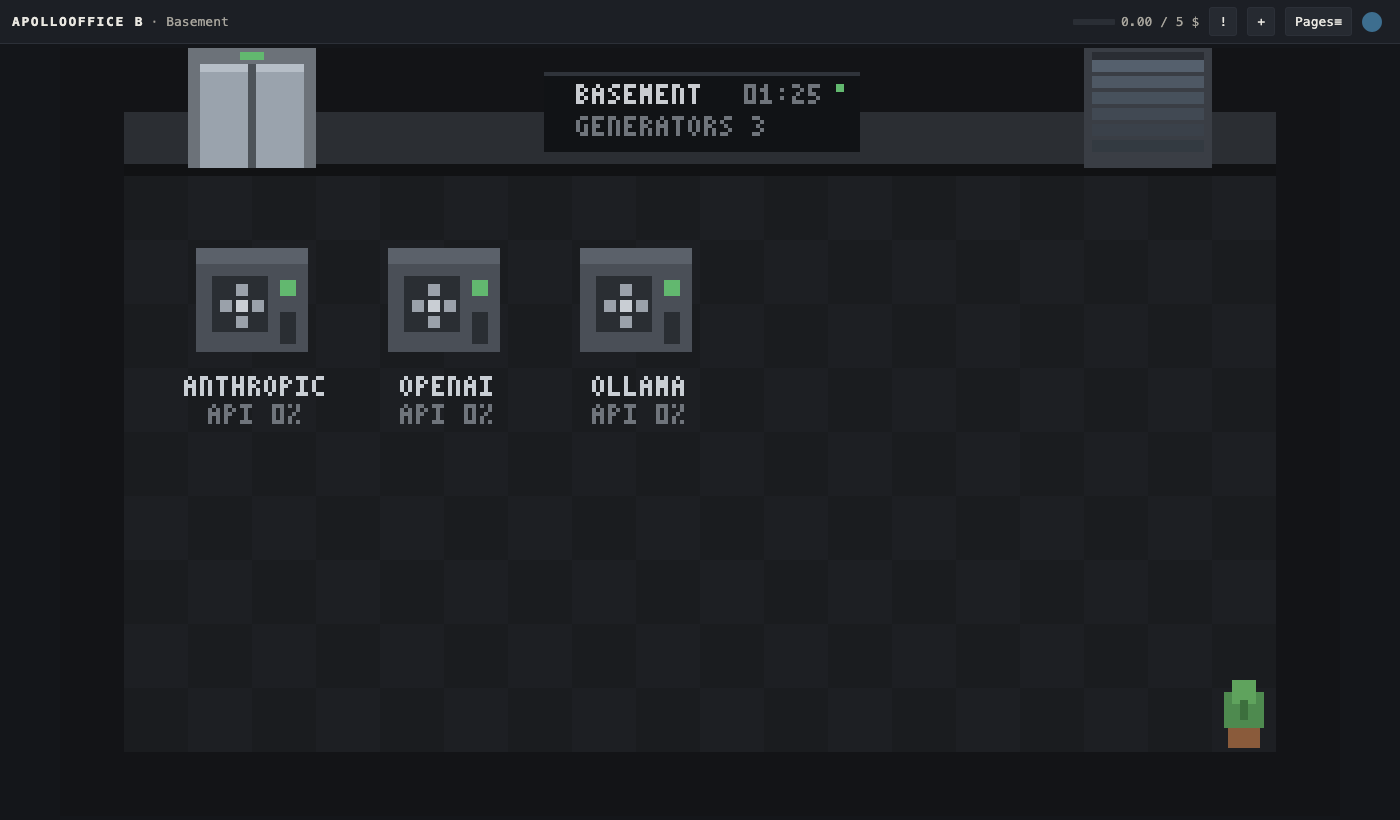
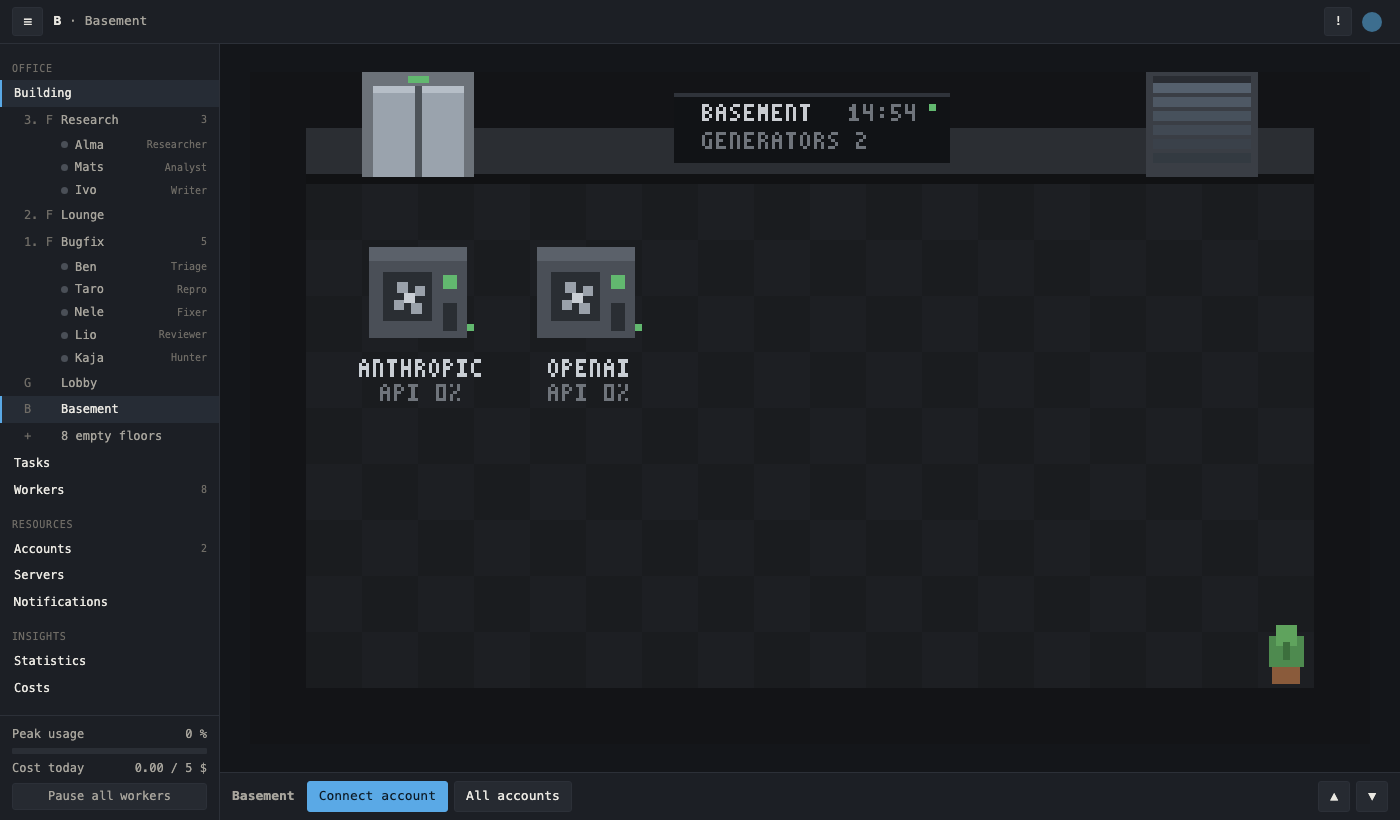
Polish the new UI and refresh screenshots
- Worker overview shows folders, commands, websites and schedules
- Statistics can add the usual widgets with one click
- Login page points to apollo-office login-link as a visible fallback
- New README screenshots of the sidebar layout
- Bump to 0.2.4

diff --git a/ui/p.js b/ui/p.js
@@ -267,7 +267,7 @@ PG.stats = async () => {
     if (w.k === "chart") return `<canvas data-ch='${esc(JSON.stringify(Array.isArray(x) ? x : []))}' width="300" height="80"></canvas>`;
     return `<div>${esc(typeof x === "object" ? JSON.stringify(x) : x)}</div>`;
   };
-  pgi.innerHTML = head("Statistics", "Numbers from your building and from outside. The service only fetches external data from addresses you enter here.") + `<div class="grid">${ws.map((w) => `<div class="wg"><div class="h"><span>${esc(w.nm || WK[w.k])}</span><span data-ed="${w.id}">⋯</span></div>${val(w)}</div>`).join("")}<div class="wg add" data-nw>+ ${"Widget"}</div></div>`;
+  pgi.innerHTML = head("Statistics", "Numbers from your building and from outside. The service only fetches external data from addresses you enter here.") + `<div class="grid">${ws.map((w) => `<div class="wg"><div class="h"><span>${esc(w.nm || WK[w.k])}</span><span data-ed="${w.id}">⋯</span></div>${val(w)}</div>`).join("")}<div class="wg add" data-nw>+ ${"Widget"}</div></div>${ws.length ? "" : `<div class="row" style="margin-top:12px"><button class="p" data-def>${"Add the usual widgets"}</button><span class="mt">${"Done today, running tasks, cost today, done per day."}</span></div>`}`;
   pgi.querySelectorAll("canvas[data-ch]").forEach((c) => {
     const d = JSON.parse(c.dataset.ch), g = c.getContext("2d"), mx = Math.max(1, ...d.map((r) => +r.n || 0));
     const bw = c.width / Math.max(1, d.length);
@@ -275,6 +275,7 @@ PG.stats = async () => {
   });
   pgi.onclick = (e) => {
     if (e.target.closest("[data-nw]")) return wEd({});
+    if (e.target.closest("[data-def]")) return (async () => { for (const [k, q, nm] of [["num", "done_today", "Done today"], ["num", "run", "Running tasks"], ["num", "usd_today", "Cost today ($)"], ["chart", "tasks_per_day", "Done per day"]]) { const r = await A.api("/api/wid", { k, nm, src: { t: "house", q, every: 60 }, x: 0, y: 0, w: 1, h: 1 }); await A.api(`/api/wid/${r.id}/now`, {}); } setTimeout(PG.stats, 500); })().catch(A.fail);
     const ed = e.target.closest("[data-ed]"); if (ed) wEd(ws.find((w) => w.id === +ed.dataset.ed));
   };
   clearTimeout(PG.st); PG.st = setTimeout(() => { if (!pg.hidden && pgi.querySelector(".grid")) PG.stats(); }, 15000);
@@ -574,7 +575,7 @@ const loginScreen = (me) => {
   const er = new URLSearchParams(location.search).get("e");
   const known = ["Login cancelled", "Link invalid or expired", "token belongs to another installation", "token was issued for another address", "token expired, please log in again", "login unknown or already used", "the login was started in another browser", "token without account", "This installation belongs to another account.", "broken token", "broken signature", "invalid signature"];
   if (er) { $("le").hidden = false; $("le").textContent = known.includes(er) ? er : "Login failed."; }
-  $("lf").textContent = "Login goes through auth.apollonet.dev. It only learns who is logging in. Everything else stays on this computer. No access? In the terminal: apollo-office login-link";
+  $("lf").textContent = "Login goes through auth.apollonet.dev. It only learns who is logging in. Everything else stays on this computer.";
 };
 
 let polling = false, lastLv = {};

diff --git a/ui/m.js b/ui/m.js
@@ -48,6 +48,10 @@ A.wBox = async (e) => {
     ${lv.say ? `<div class="rw"><span>${"Last"}</span><span>${esc(lv.say.slice(0, 120))}</span></div>` : ""}
     <div class="rw"><span>${"Today"}</span><span>${(d.us && d.us.tok) || 0} Tokens${d.us && d.us.usd ? " · " + d.us.usd.toFixed(2) + " $" : ""}</span></div>
     <div class="rw"><span>${"Takes tasks from"}</span><span>${(w.cfg.from || []).map((f) => esc(wName(f.w ?? f))).join(", ") || "only from you"}</span></div>
+    <div class="rw"><span>${"Folders"}</span><span>${[...(w.cfg.fsw || []).map((x) => esc(x) + " (rw)"), ...(w.cfg.fsr || []).map((x) => esc(x) + " (r)")].join("<br>") || `<span class="er">${"none yet"}</span>`}</span></div>
+    <div class="rw"><span>${"Commands"}</span><span>${w.cfg.sh === true ? "any" : Array.isArray(w.cfg.sh) && w.cfg.sh.length ? w.cfg.sh.map(esc).join(", ") : "none"}${w.cfg.push ? " · git push" : ""}</span></div>
+    ${(w.cfg.net || []).length ? `<div class="rw"><span>${"Websites"}</span><span>${w.cfg.net.map(esc).join(", ")}</span></div>` : ""}
+    ${(w.cfg.sched || []).length ? `<div class="rw"><span>${"Recurring"}</span><span>${w.cfg.sched.map((x) => esc(x.ti) + " · " + (x.at ? esc(x.at) : "every " + (+x.every || 0) + " min")).join("<br>")}</span></div>` : ""}
     <details open><summary>${"Recent tasks"}</summary><div class="li">${(d.tk || []).slice(0, 12).map((t) => `<div data-k="${t.id}"><span>${esc(t.ti.slice(0, 40))}</span><span class="mt">${L(t.st)}</span></div>`).join("") || `<span class="mt">${"none yet"}</span>`}</div></details>
     <div class="acts"><button data-t>${"Give task"}</button><button class="l" data-f>${A.fol === e ? "Unfollow" : "Follow"}</button><button class="l" data-h>${w.hold ? "Resume" : "Pause"}</button></div>`, e);
   b.onclick = async (ev) => {
@@ -150,7 +154,7 @@ A.wSet = async (id, at) => {
         <div class="row" style="display:flex;gap:4px;margin-top:4px"><input type="text" id="sSt" placeholder="${"Title"}" style="flex:1"><input type="text" id="sSe" placeholder="${"08:00 or 60"}" style="width:90px"><button class="l" data-as>+</button></div>
       </details>
       <details${A.permOpen ? " open" : ""}><summary>${"Permissions"}</summary>
-        <div class="mt">${"Read folder"}</div>${chips("fsr", c.fsr, "Path, e.g. C:\\Users\\you\\Project")}
+        <div class="mt">${"Read folder"}</div>${chips("fsr", c.fsr, navigator.platform.startsWith("Win") ? "Path, e.g. C:\\Users\\you\\Project" : "Path, e.g. /home/you/project")}
         <div class="mt">${"Read and change folder"}</div>${chips("fsw", c.fsw, "Path")}
         <div class="rw"><span>${"Commands"}</span><span><select id="sSh"><option value="no"${c.sh === false || c.sh == null ? " selected" : ""}>${"none"}</option><option value="ls"${Array.isArray(c.sh) ? " selected" : ""}>${"only these"}</option><option value="any"${c.sh === true ? " selected" : ""}>${"any"}</option></select></span></div>
         ${Array.isArray(c.sh) ? chips("sh", c.sh, "e.g. npm test or git diff *") : ""}

diff --git a/ui/style.css b/ui/style.css
@@ -133,6 +133,8 @@ th.gh{text-align:left;padding-top:14px;font-size:11px;text-transform:uppercase;l
 #login button:hover{border-color:#4a515c;background:#20242a}
 #login .e{color:var(--bad);margin:12px 0 0}
 #login .f{color:var(--t3);font-size:11px;margin-top:18px}
+#login .k{margin-top:16px;background:var(--pn);border:1px solid var(--ln);border-radius:4px;padding:10px;color:var(--t2);font-size:12px;text-align:left}
+#login .k code{display:block;margin-top:6px;color:var(--t1);background:var(--in);padding:6px 8px;border-radius:3px}
 #nav{position:fixed;left:0;top:44px;bottom:0;width:220px;display:flex;flex-direction:column;background:var(--bar);border-right:1px solid var(--ln);z-index:11;font-size:12px}
 #nav .sc{flex:1;overflow:auto;padding:4px 0 12px}
 #nav .h{color:var(--t3);text-transform:uppercase;letter-spacing:.08em;font-size:10px;padding:14px 12px 4px}

diff --git a/ui/index.html b/ui/index.html
@@ -15,6 +15,7 @@
     <p id="lp"></p>
     <div class="b" id="lb"></div>
     <p class="e" id="le" hidden></p>
+    <div class="k">Login does not work or you are on the computer running ApolloOffice? Run this in a terminal and open the link:<code>apollo-office login-link</code></div>
     <p class="f" id="lf"></p>
   </div>
 </div>

diff --git a/README.md b/README.md
@@ -18,7 +18,7 @@
   <img src="https://img.shields.io/badge/runs-locally-2EA44F" alt="Runs locally">
 </p>
 
-![The Bugfix floor: the CEO, Triage, Repro and a Fixer at their desks, the Reviewer off duty, results in the OUT tray](docs/images/hero.png)
+![The Bugfix floor with Triage, Repro, Fixer, Reviewer and Hunter at their desks, the sidebar with every floor and worker on the left and the floor bar below](docs/images/hero.png)
 
 Every account you connect is a generator in the basement. Every floor is a
 room you build yourself: offices, a lounge, a server room, accounting. Workers
@@ -77,13 +77,13 @@ from them, and drop results into the OUT tray.
 - **Start quest.** Pia at the reception walks you through power, first office,
   first worker, first task and first result. After that you are on your own.
 
-| Basement | Worker menu | Rights |
+| Basement | Worker | Rights |
 | --- | --- | --- |
-| <img src="docs/images/basement.png" alt="Basement with three generators"> | <img src="docs/images/menu.png" alt="Worker menu next to a worker"> | <img src="docs/images/perm.png" alt="Worker settings with folders, commands and who it takes orders from"> |
+| <img src="docs/images/basement.png" alt="Basement with two generators"> | <img src="docs/images/menu.png" alt="Worker inspector on the right with status, folders and commands"> | <img src="docs/images/perm.png" alt="Worker settings with folders, commands and who it takes orders from"> |
 
 | Lounge | Build mode | Phone |
 | --- | --- | --- |
-| <img src="docs/images/lounge.png" alt="Two workers asleep on the lounge couch"> | <img src="docs/images/build.png" alt="Build mode with grid and furniture palette"> | <img src="docs/images/mobile.png" alt="The office on a phone" width="200"> |
+| <img src="docs/images/lounge.png" alt="The lounge floor"> | <img src="docs/images/build.png" alt="Build mode with grid and furniture palette"> | <img src="docs/images/mobile.png" alt="The office on a phone" width="200"> |
 
 ## Install
 
